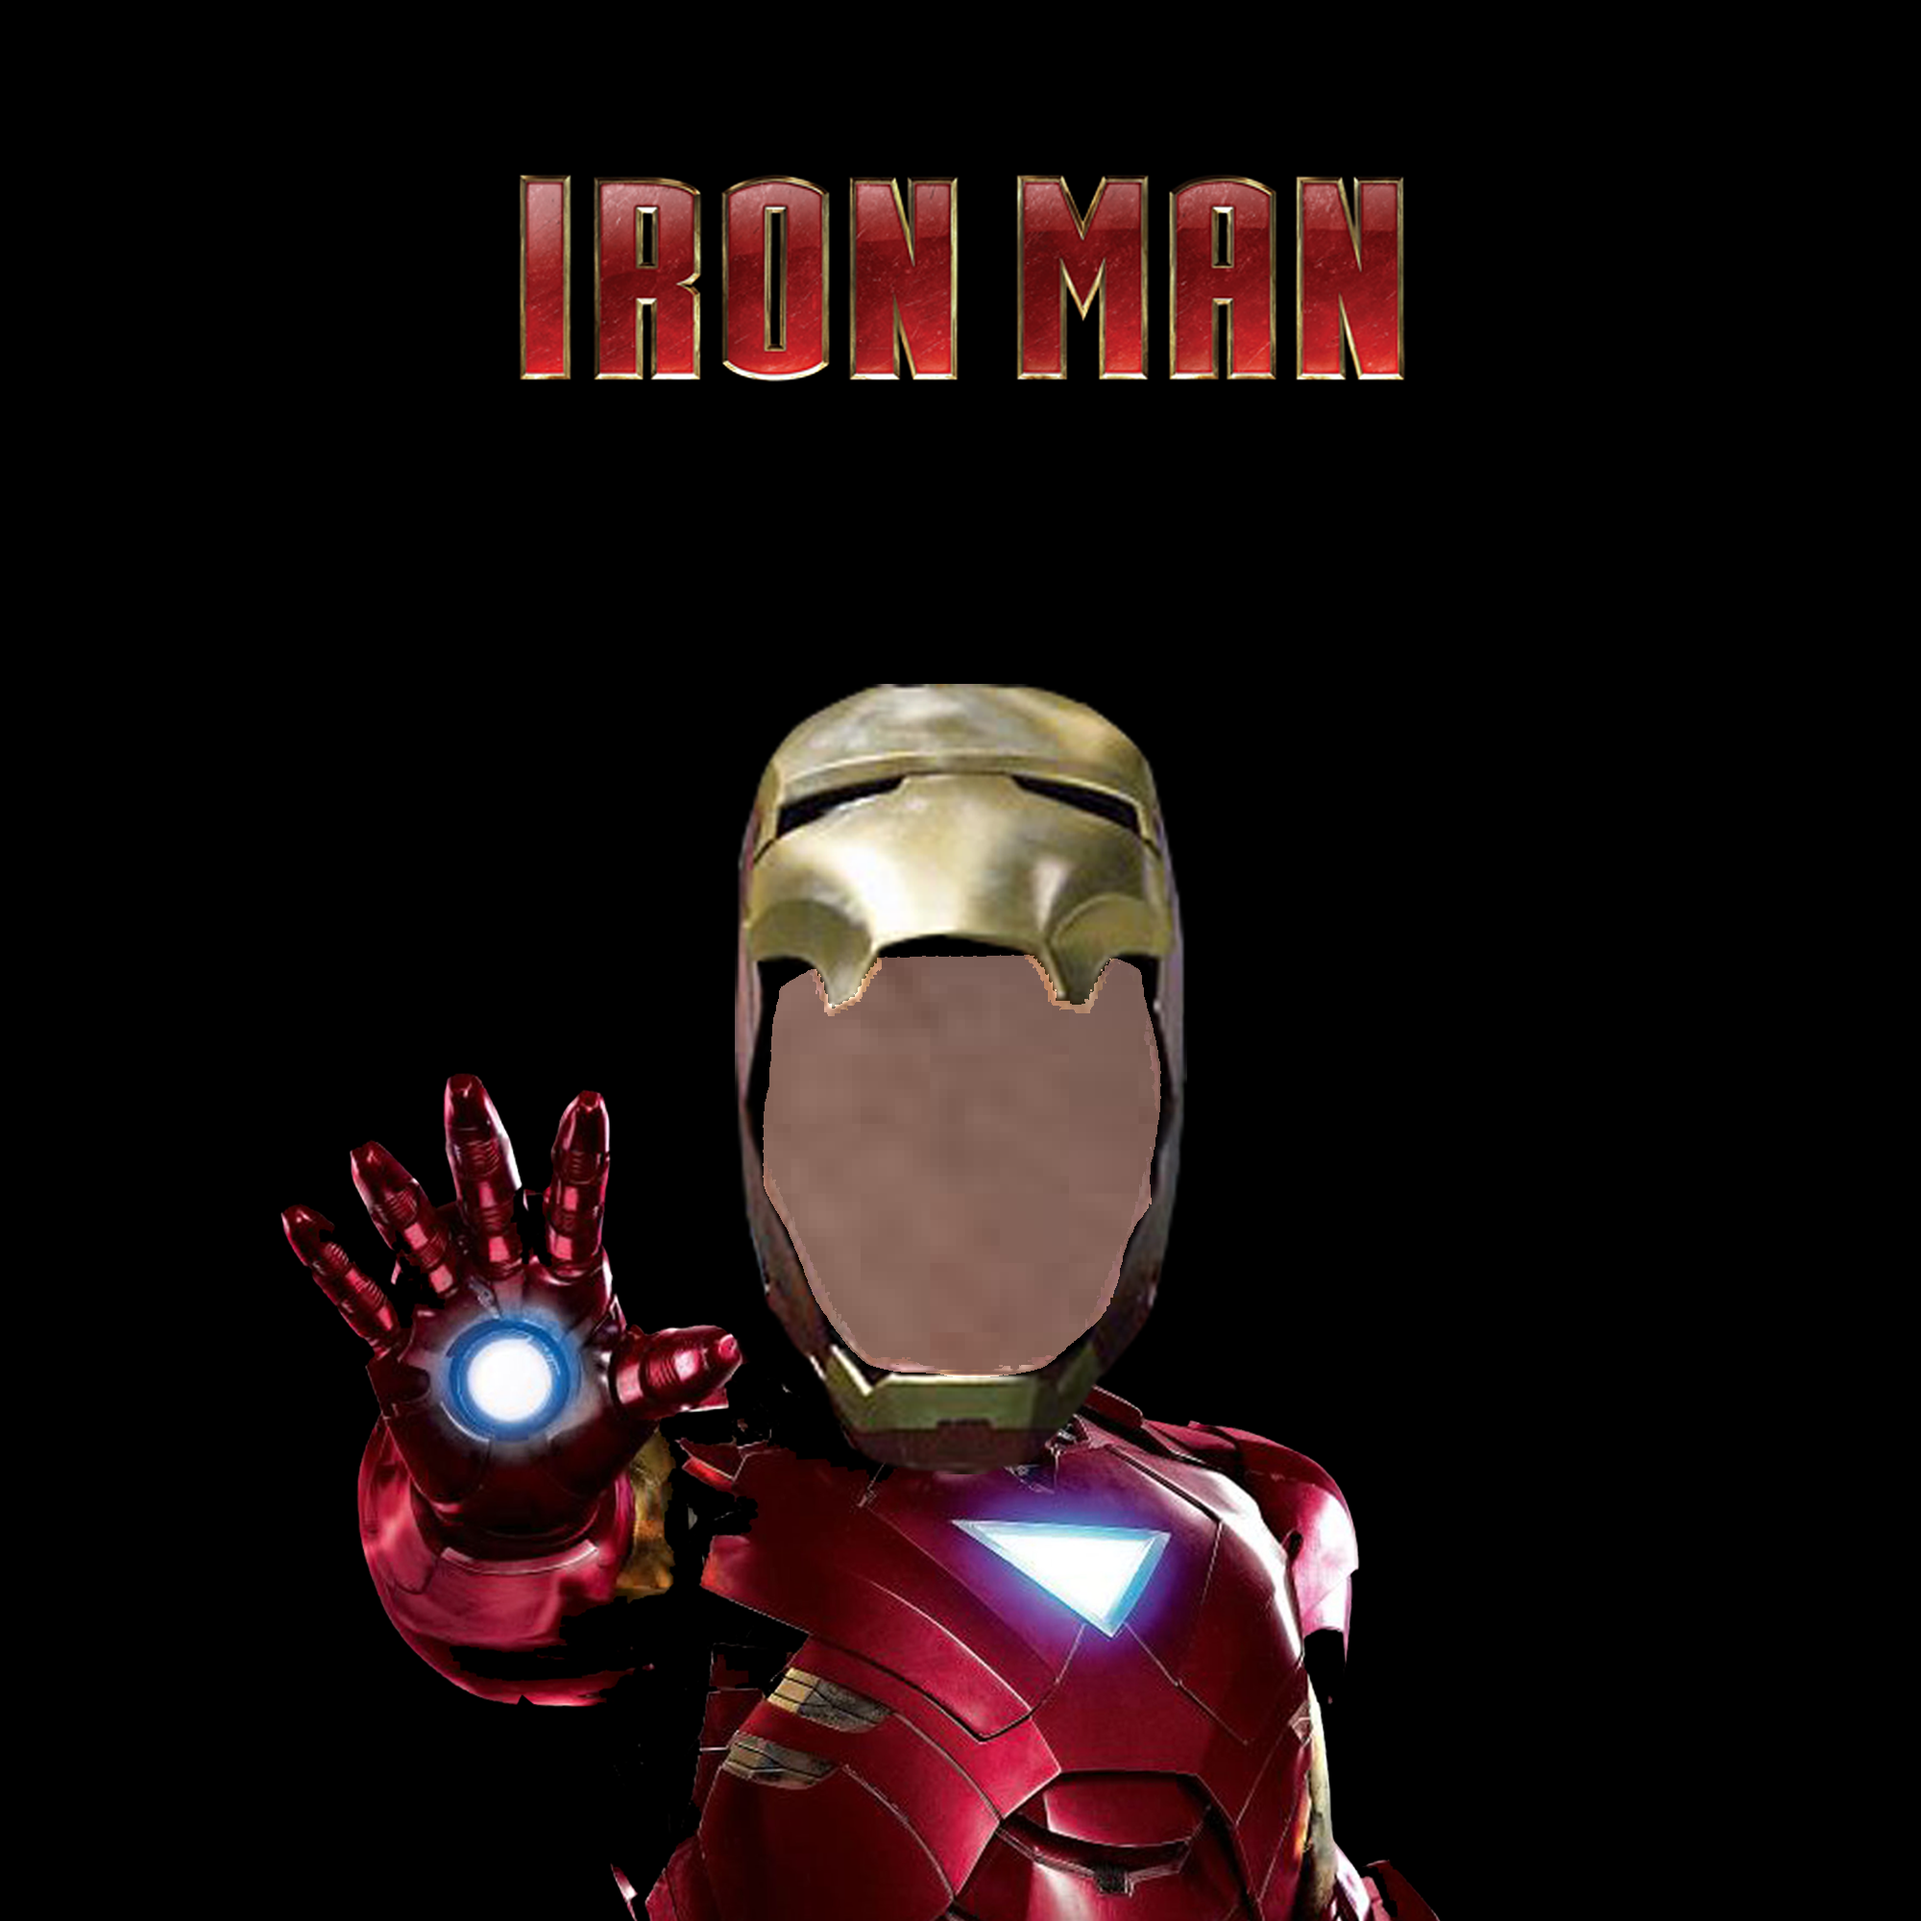
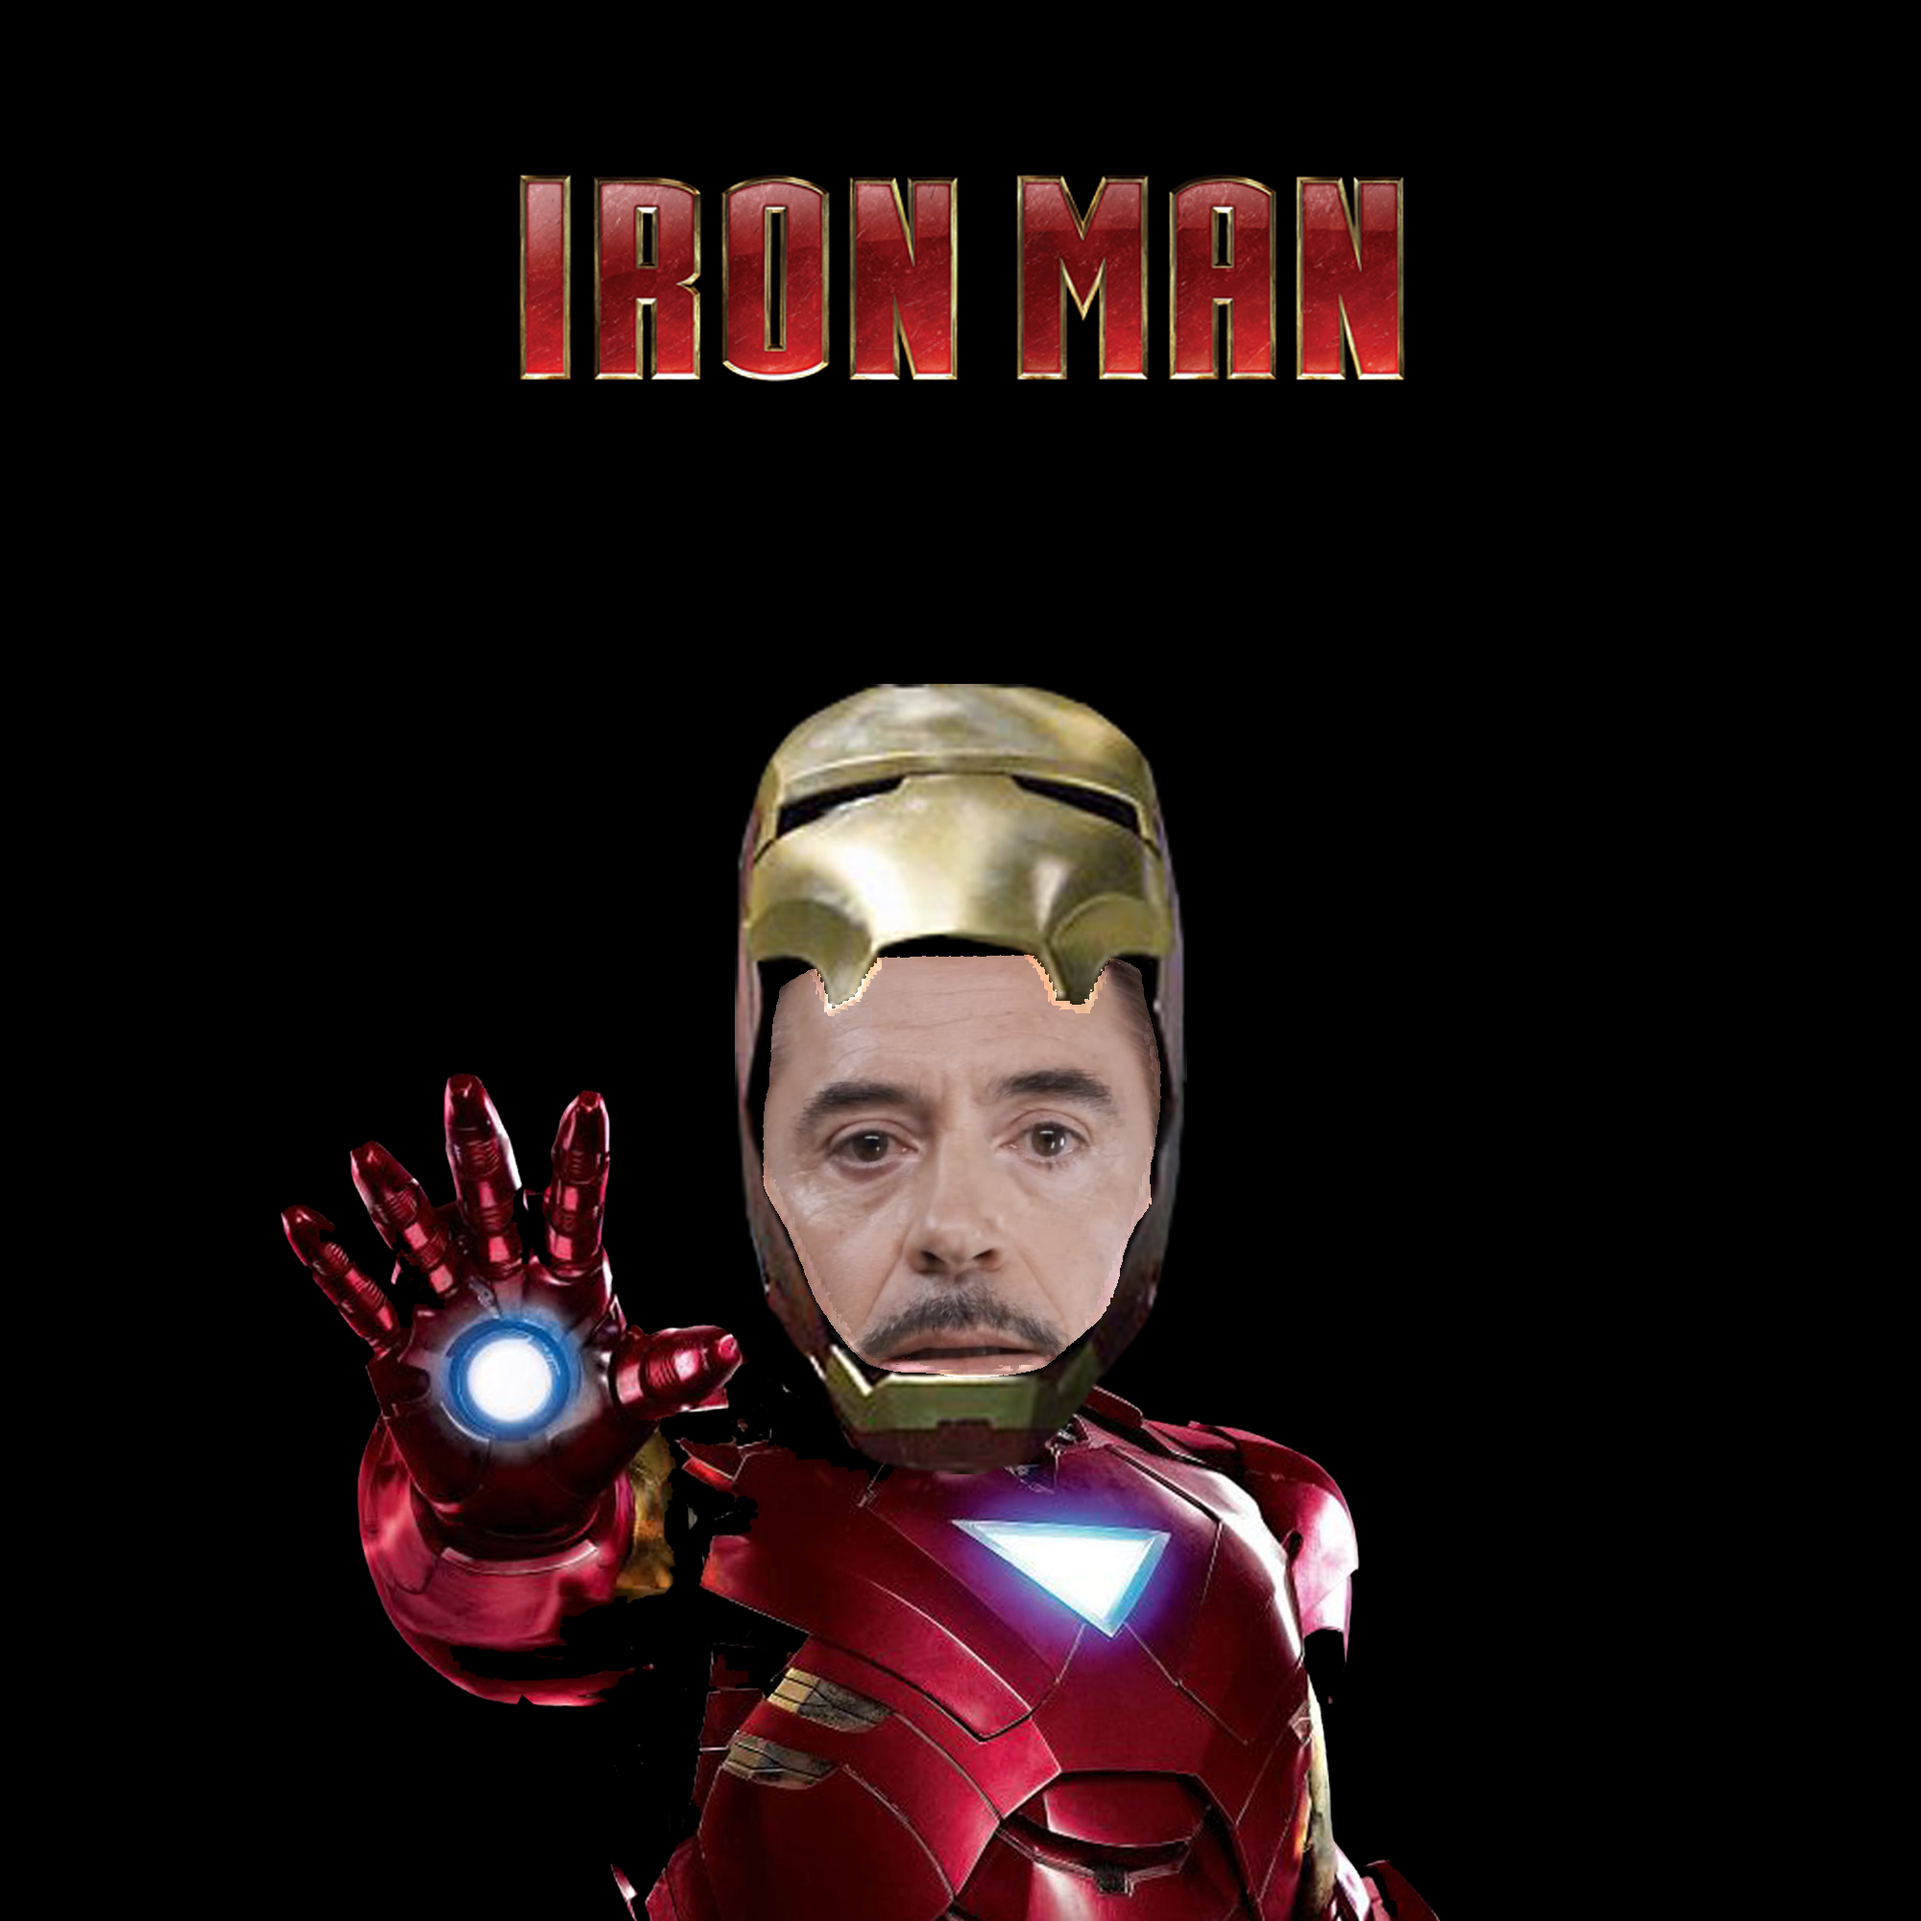
Overlay funcionando

Changed region(s): [[0.403, 0.496, 0.62, 0.744]]

diff --git a/Photos.py b/Photos.py
@@ -1,0 +1,56 @@
+# -*- coding: utf-8 -*-
+"""
+@authors: elies, freddyd, michelh
+"""
+import cv2
+     
+def overlay(vingador):
+    face_cascade = cv2.CascadeClassifier('C:/Users/Freddy Dratwa/Downloads/opencv/sources/data/haarcascades/haarcascade_frontalface_default.xml')
+    foreground_image = cv2.imread('C:/Users/Freddy Dratwa/Documents/GitHub/Quiz_Avengers/photos/{}.png'.format(vingador), -1)
+            
+    foreground_mask = foreground_image[:, :, 3] 
+    background_mask = cv2.bitwise_not(foreground_mask)  
+    foreground_image = foreground_image[:, :, 0:3] 
+    
+    foreground_size = 570
+    foreground_ratio = float(foreground_size)  
+    
+    background_size = 2000 
+    
+    padding_top = ((background_size - foreground_size) / 3) * 2
+    padding_bottom = background_size - padding_top
+    padding_left = (background_size - foreground_size) / 2
+    padding_right = (background_size - foreground_size) / 2
+
+    cv_image = cv2.imread("C:/Users/Freddy Dratwa/Documents/GitHub/Quiz_Avengers/rr.jpg") 
+       
+    faces = face_cascade.detectMultiScale( 
+                cv_image,
+                scaleFactor=1.1,
+                minNeighbors=3,
+                minSize=(30, 30),
+                flags=cv2.CASCADE_SCALE_IMAGE)
+    for (x1, y1, w, h) in faces:     
+           
+        x2 = x1 + w
+        y2 = y1 + h
+        face_roi = cv_image[y1:y2, x1:x2]  
+       
+        ratio = foreground_ratio / face_roi.shape[1]
+        dimension = (foreground_size, int(face_roi.shape[0] * ratio))
+        face = cv2.resize(face_roi, dimension, interpolation = cv2.INTER_AREA)  
+          
+        background_image = cv2.copyMakeBorder(face, int(padding_top), int(padding_bottom), int(padding_left), int(padding_right), cv2.BORDER_CONSTANT)  
+    
+        background_src = background_image[0:background_size, 0:background_size]  
+        roi_bg = cv2.bitwise_and( background_src,  background_src, mask=background_mask)  
+        roi_fg = cv2.bitwise_and(foreground_image, foreground_image, mask=foreground_mask)
+        dst = cv2.add(roi_bg, roi_fg) 
+
+        cv2.imwrite("C:/Users/Freddy Dratwa/Documents/GitHub/Quiz_Avengers/vingador.png", dst) 
+            
+        #print("Pronto!!")
+        cv2.waitKey()
+        cv2.destroyAllWindows()
+        break     
+    return None

diff --git a/desoft_projeto_final_flask.py b/desoft_projeto_final_flask.py
@@ -8,8 +8,8 @@ import funcao as f
 import maxkey as m
 import idade as anos
 import img_mail as mail
-#from photos.Photos import camera
-#import cv2
+import Photos as p
+import cv2
 
 app = Flask(__name__,static_url_path="")
 
@@ -100,6 +100,7 @@ def camera():
 def resultado():
     
     if request.method == "GET":
+        p.overlay("Iron man")
         return render_template("resultado.html", v = vencedor)
 
     if request.method == "POST":

diff --git a/img_mail.py b/img_mail.py
@@ -18,7 +18,7 @@ def send(emailto):
     msg['Subject'] = "teste"
  
 
-    foto=open(r"\photos\vingador.png", "rb")
+    foto=open(r"vingador.png", "rb")
     msg.attach(MIMEImage(foto.read()))
     msg.attach(MIMEText("thanks for playing"))
  
